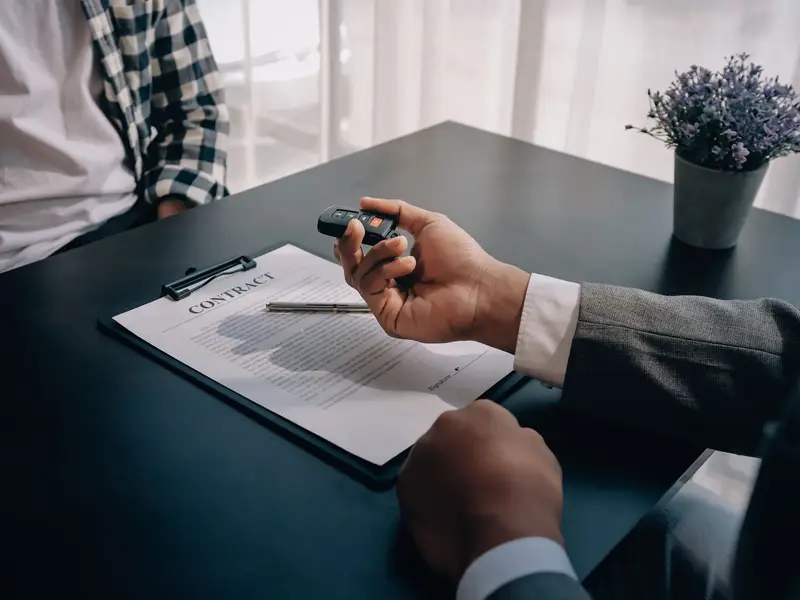
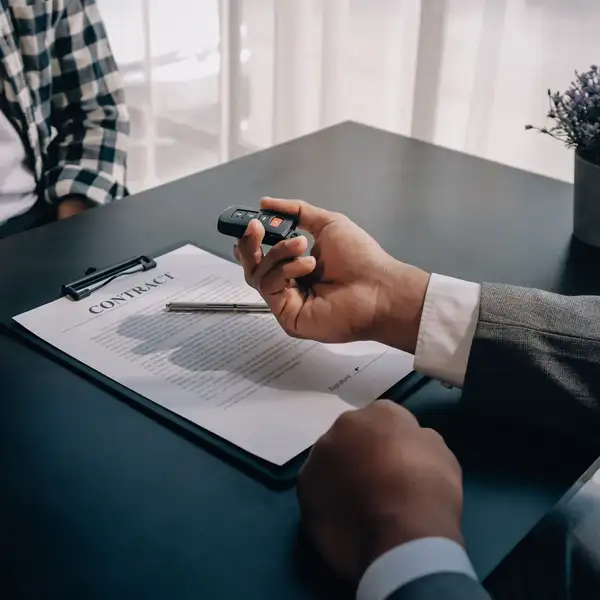
Mise à jour globale : layout cookies responsive + autres ajustements pages

diff --git a/src/app/a-propos/page.tsx b/src/app/a-propos/page.tsx
@@ -176,7 +176,12 @@ export default function AboutPage() {
           </motion.div>
 
           <div className="grid gap-10 sm:grid-cols-2 lg:grid-cols-4">
-            {["Marie", "Sonia", "Camille", "Thomas"].map((name, i) => (
+            {[
+              { name: "Bientôt disponible", img: "/optimized/equipe-1.webp", role: "Poste à pourvoir" },
+              { name: "Thomas", img: "/optimized/equipe-2.webp", role: "Responsable d’agence" },
+              { name: "Samantha", img: "/optimized/equipe-3.webp", role: "Chargée de clientèle" },
+              { name: "Recrutement en cours", img: "/optimized/equipe-4.webp", role: "Nouveau talent à venir" },
+            ].map((member, i) => (
               <motion.div
                 key={i}
                 {...fadeUp}
@@ -184,16 +189,20 @@ export default function AboutPage() {
               >
                 <div className="relative h-32 w-32 overflow-hidden rounded-full border mb-4">
                   <Image
-                    src={`/optimized/equipe-${i + 1}.webp`}
-                    alt={`Photo ${name}`}
+                    src={member.img}
+                    alt={`Photo ${member.name}`}
                     fill
                     quality={70}
                     sizes="(max-width: 640px) 100vw, (max-width: 1024px) 50vw, 25vw"
-                    className="object-cover"
+                    className={`object-cover ${
+                      member.name.includes("Bientôt") || member.name.includes("Recrutement")
+                        ? "opacity-60 grayscale"
+                        : ""
+                    }`}
                   />
                 </div>
-                <h3 className="text-lg font-semibold">{name}</h3>
-                <p className="text-sm text-gray-600">Intervenant(e)</p>
+                <h3 className="text-lg font-semibold text-[#1E293B]">{member.name}</h3>
+                <p className="text-sm text-gray-600">{member.role}</p>
               </motion.div>
             ))}
           </div>

diff --git a/scripts/to-webp.js b/scripts/to-webp.js
@@ -18,15 +18,22 @@ const images = [
   "public/pexels-fauxels-3184418.jpg",
   "public/pexels-mikhail-nilov-7681302.jpg",
   "public/vitrepart2.jpg",
+  "public/Samantha.jpg",
+  "public/Thomas.jpg",
 ];
 
 // 📂 Crée le dossier "public/optimized" s’il n’existe pas
 await fs.mkdir("public/optimized", { recursive: true });
 
 // ⚙ Règles spéciales : certaines images sont réduites davantage
-const resizeTargets = ["pouss.jpg", "embauche.jpg"];
+const resizeTargets = [
+  "pouss.jpg",
+  "embauche.jpg",
+  "Samantha.jpg",
+  "Thomas.jpg",
+];
 
-// Fonction utilitaire pour obtenir la taille en Ko
+// 🔍 Fonction utilitaire pour obtenir la taille en Ko
 async function getFileSize(filePath) {
   try {
     const stats = await fs.stat(filePath);
@@ -48,15 +55,17 @@ for (const img of images) {
 
   const isSmallResize = resizeTargets.some((target) => img.includes(target));
 
-  // 🔧 Applique redimensionnement ou compression selon le cas
+  // ⚙ Paramètres d’optimisation
   const sharpInstance = sharp(img);
 
   if (isSmallResize) {
+    // Photos de profil et images lourdes : plus petite taille
     await sharpInstance
-      .resize(800, 600, { withoutEnlargement: true })
-      .webp({ quality: 70 })
+      .resize(600, 600, { fit: "cover", withoutEnlargement: true })
+      .webp({ quality: 60 })
       .toFile(out);
   } else {
+    // Autres images : optimisation standard
     await sharpInstance
       .resize({ width: 1200, withoutEnlargement: true })
       .webp({ quality: 65 })

diff --git a/src/app/page.tsx b/src/app/page.tsx
@@ -483,7 +483,7 @@ export default function HomePage() {
         className="relative h-80 md:h-[450px] overflow-hidden rounded-3xl border border-gray-200 bg-white shadow-xl"
       >
       <Image
-        src="/optimized/pouss.webp"
+        src="/optimized/pexels-fauxels-3184418.webp"
         alt="Présentation visuelle"
         fill
         priority
